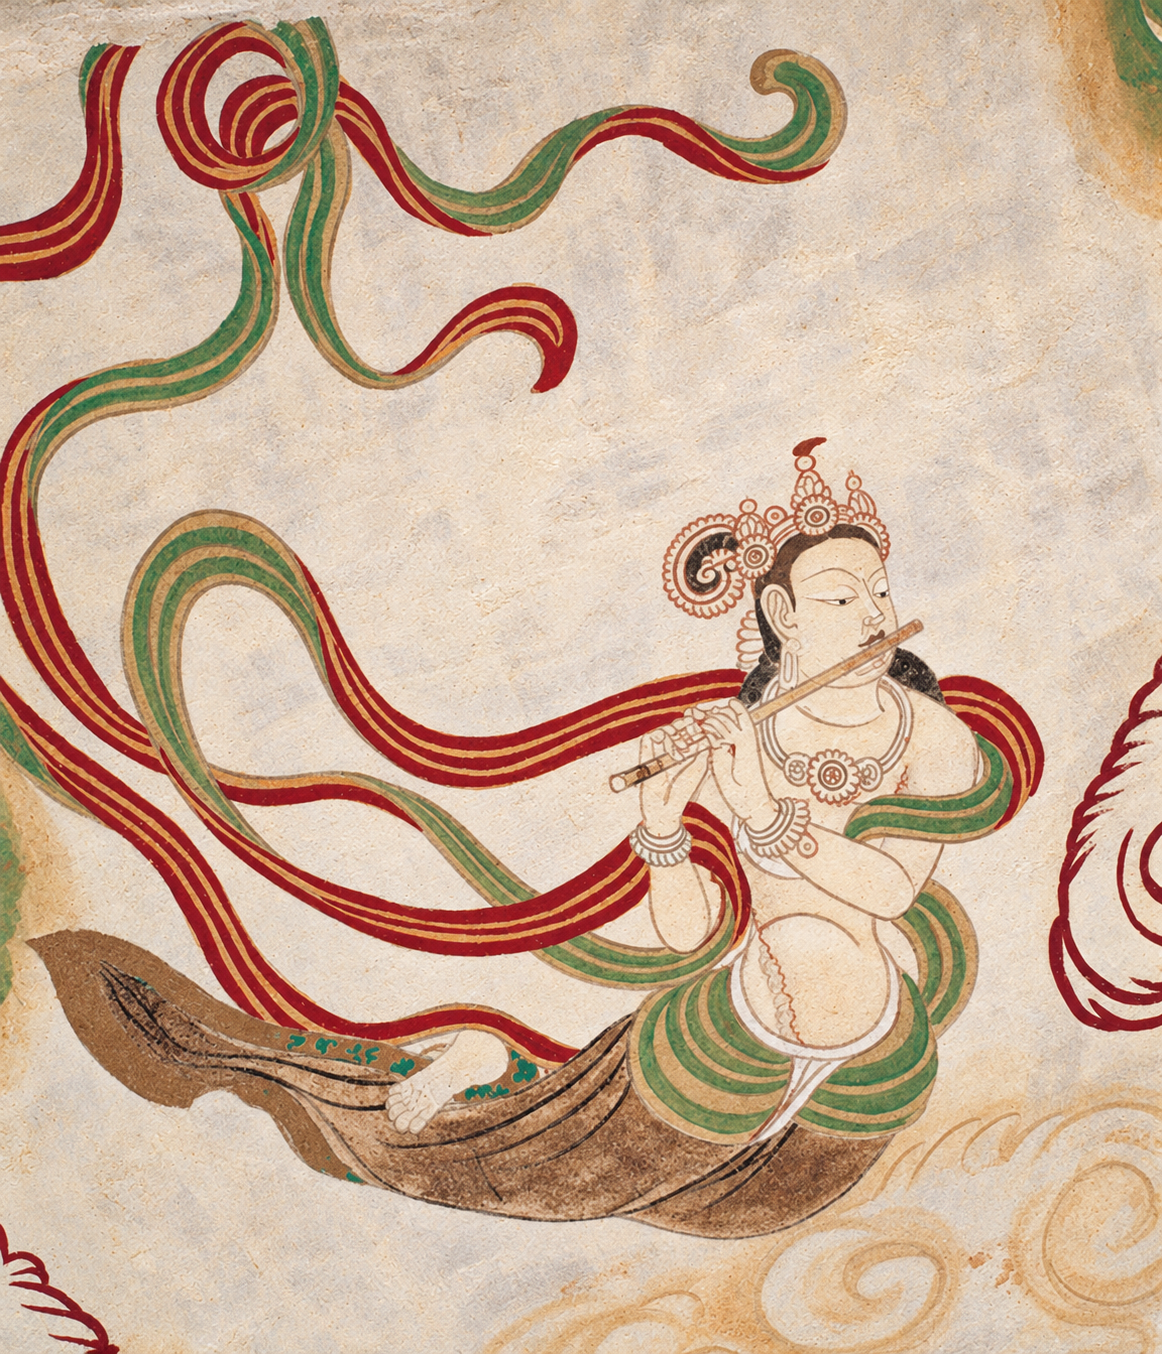
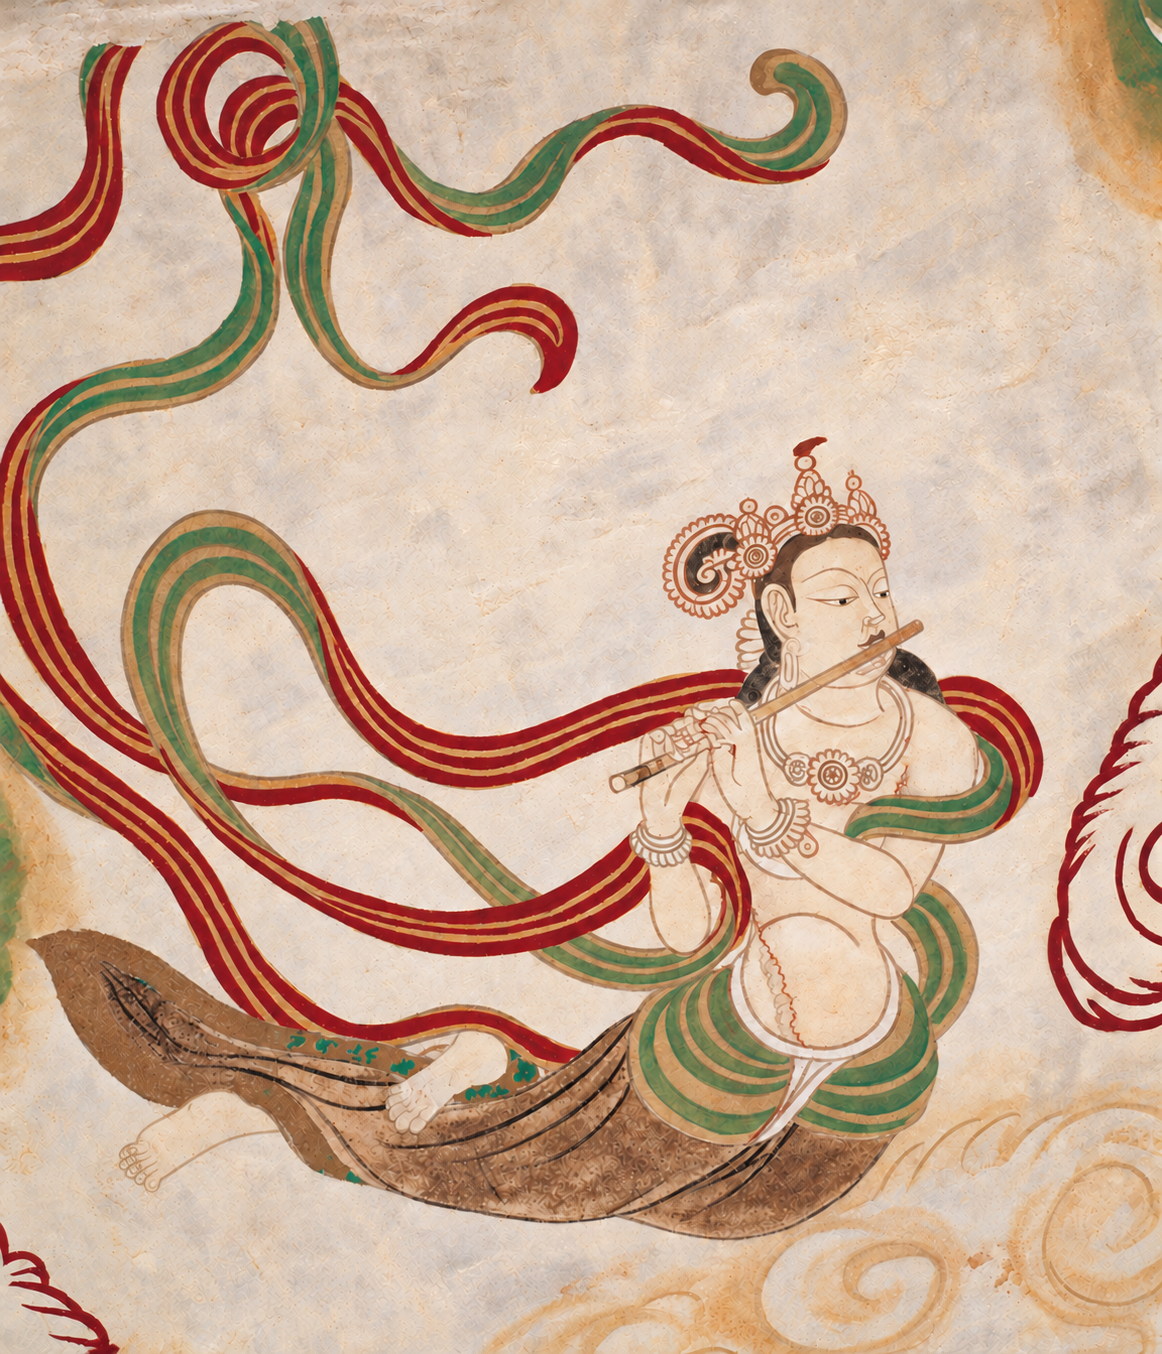
Restore the missing foot and separate particle scattering from gathering

diff --git a/particles.js b/particles.js
@@ -41,17 +41,18 @@ window.createFeitianEffects = function ({view,img,state,setHint}) {
     });ctx.restore();
     if(scene){
       const current=scene,t=clamp((now-current.start)/1000);
-      if(t>=.52&&!current.committed){current.committed=true;current.commit();img.style.opacity='0'}
-      const reveal=ease((t-.77)/.23),disappear=ease(t/.21),colour=ease((t-.33)/.42);
+      if(t>=.58&&!current.committed){current.committed=true;current.commit();img.style.opacity='0'}
+      const reveal=ease((t-.9)/.1),disappear=ease(t/.15),colour=ease((t-.58)/.32);
       img.style.opacity=String(current.committed?reveal:1-disappear);
-      const opacity=ease(t/.17)*(1-reveal);
-      const angle=Math.PI*1.6*ease((t-.02)/.96),cs=Math.cos(angle),sn=Math.sin(angle);
-      const tilt=.22*Math.sin(Math.PI*t),ct=Math.cos(tilt),st=Math.sin(tilt),focal=Math.max(width,height)*1.45;
-      const expansion=1+Math.sin(Math.PI*t)*.08;
+      const opacity=ease(t/.12)*(1-reveal);
+      // Rotation ends before gathering begins; the dispersed volume holds its angle.
+      const turn=ease(t/.55),angle=Math.PI*1.6*turn,cs=Math.cos(angle),sn=Math.sin(angle);
+      const tilt=.22*turn,ct=Math.cos(tilt),st=Math.sin(tilt),focal=Math.max(width,height)*1.45;
       current.points.forEach(p=>{
-        const spread=ease((t-.025-p.delay)/.49),gather=ease((t-.43-p.delay)/.49);
+        const spread=1-Math.pow(1-clamp((t-p.delay)/.48),3);
+        const gather=ease((t-.6-p.delay)/.34);
         // A volume of source-colour grains turns around the central vertical axis.
-        const rx=(p.ox*cs+p.oz*sn)*expansion,rz=(-p.ox*sn+p.oz*cs)*expansion;
+        const rx=p.ox*cs+p.oz*sn,rz=-p.ox*sn+p.oz*cs;
         const ry=p.oy*ct-rz*st,depth=p.oy*st+rz*ct,perspective=focal/(focal-depth);
         const vx=width/2+rx*perspective,vy=height/2+ry*perspective;
         const x=mix(mix(p.ax,vx,spread),p.bx,gather);
@@ -73,10 +74,13 @@ window.createFeitianEffects = function ({view,img,state,setHint}) {
         const u=(x+random(.2,.8))/cols,v=(y+random(.2,.8))/rows,i=(y*cols+x)*4;
         const a=point(u,v,old),bx=width/2+(u-.5)*nw,by=height/2+(v-.5)*nh;
         const first=[c0[i],c0[i+1],c0[i+2]],second=[c1[i],c1[i+1],c1[i+2]];
-        const ox=(u-.5)*Math.min(width*.69,Math.max(old.baseW,nw)*.9);
-        const oy=(v-.5)*Math.min(height*.72,Math.max(old.baseH,nh)*.9);
-        const oz=random(-1,1)*Math.min(width*.24,height*.4)*Math.sqrt(Math.max(.06,1-(2*u-1)**2-(2*v-1)**2));
-        points.push({ax:a[0],ay:a[1],bx,by,ox,oy,oz,delay:random(-.02,.025),r:random(.45,1.05),c0:first,c1:second,old:`rgb(${first})`,next:`rgb(${second})`});
+        // Independent 3D destinations break up the rectangular image into a loose cloud.
+        const azimuth=random(0,Math.PI*2),vertical=random(-1,1),radius=Math.cbrt(Math.random());
+        const ring=Math.sqrt(1-vertical*vertical)*radius;
+        const ox=Math.cos(azimuth)*ring*width*.43;
+        const oy=vertical*radius*height*.39;
+        const oz=Math.sin(azimuth)*ring*Math.min(width*.32,height*.62);
+        points.push({ax:a[0],ay:a[1],bx,by,ox,oy,oz,delay:random(0,.018),r:random(.45,1.05),c0:first,c1:second,old:`rgb(${first})`,next:`rgb(${second})`});
       }
       scene={points,commit,committed:false,start:performance.now()};view.classList.add('changing');start();
     }catch{commit();finish()}

diff --git a/index.html b/index.html
@@ -1,1 +1,1 @@
-<!doctype html><html lang="zh-CN"><head><meta charset="UTF-8"><meta name="viewport" content="width=device-width,initial-scale=1"><meta name="feitian-build" content="20261021-orbit3d13"><meta name="theme-color" content="#100d0b"><meta name="description" content="横向沉浸式敦煌飞天互动展馆。真实壁画、细粒子切换、精细金尘、拖拽漫游与画面取色，图片来源敦煌研究院。"><title>一袖千年 · 敦煌飞天交互展馆</title><link rel="stylesheet" href="style.css?v=20261021-orbit3d13"><link rel="stylesheet" href="museum.css?v=20261021-orbit3d13"><link rel="stylesheet" href="glass.css?v=20261021-orbit3d13"></head><body><header><a class="brand" href="#home" aria-label="一袖千年首页"><span>一袖千年<small>衣袂乘风 · 一梦敦煌</small></span></a><nav aria-label="主导航"></nav><div class="sound-wrap"><button class="sound" id="sound" aria-pressed="false"><span>♪</span> 听见天乐</button><a class="sound-source" href="https://peritune.com/blog/2018/10/13/wuxia2/" target="_blank" rel="noopener" title="Wuxia2（古筝与琵琶）· PeriTune · CC BY 4.0 · 当代配乐">Wuxia2 · PeriTune ↗</a></div></header><main></main><script src="app.js?v=20261021-orbit3d13"></script><script src="particles.js?v=20261021-orbit3d13"></script><script src="restore.js?v=20261021-orbit3d13"></script><script src="museum.js?v=20261021-orbit3d13"></script></body></html>
+<!doctype html><html lang="zh-CN"><head><meta charset="UTF-8"><meta name="viewport" content="width=device-width,initial-scale=1"><meta name="feitian-build" content="20261021-foot16"><meta name="theme-color" content="#100d0b"><meta name="description" content="横向沉浸式敦煌飞天互动展馆。真实壁画、细粒子切换、精细金尘、拖拽漫游与画面取色，图片来源敦煌研究院。"><title>一袖千年 · 敦煌飞天交互展馆</title><link rel="stylesheet" href="style.css?v=20261021-foot16"><link rel="stylesheet" href="museum.css?v=20261021-foot16"><link rel="stylesheet" href="glass.css?v=20261021-foot16"></head><body><header><a class="brand" href="#home" aria-label="一袖千年首页"><span>一袖千年<small>衣袂乘风 · 一梦敦煌</small></span></a><nav aria-label="主导航"></nav><div class="sound-wrap"><button class="sound" id="sound" aria-pressed="false"><span>♪</span> 听见天乐</button><a class="sound-source" href="https://peritune.com/blog/2018/10/13/wuxia2/" target="_blank" rel="noopener" title="Wuxia2（古筝与琵琶）· PeriTune · CC BY 4.0 · 当代配乐">Wuxia2 · PeriTune ↗</a></div></header><main></main><script src="app.js?v=20261021-foot16"></script><script src="particles.js?v=20261021-foot16"></script><script src="restore.js?v=20261021-foot16"></script><script src="museum.js?v=20261021-foot16"></script></body></html>

diff --git a/restore.js b/restore.js
@@ -14,7 +14,7 @@ window.setupMuralRestoration = function ({shell,getExhibit}) {
     const x=getExhibit();dialog.querySelector('#restoreTitle').textContent='AI修复 · '+x.name;
     before.src=x.src;before.alt=x.cave+' '+x.name+'，敦煌研究院原图';
     stage.classList.remove('ready');loading.hidden=false;loading.textContent='正在载入修复示意图…';
-    split(50);after.src='assets/restored/'+x.src.split('/').at(-1).replace(/\.[^.]+$/,'.png');
+    split(50);after.src='assets/restored/'+x.src.split('/').at(-1).replace(/\.[^.]+$/,'.png')+'?v=20261021-foot16';
     after.alt=x.name+' · AI修复示意（生成补绘，非原始壁画）';
     dialog.querySelector('.restore-foot a').href=x.link;
     button.setAttribute('aria-pressed','true');dialog.showModal();

diff --git a/assets/restored/PROVENANCE.md b/assets/restored/PROVENANCE.md
@@ -1,5 +1,21 @@
 # AI 修复示意：素材与提示词记录
 
+## 2026-10-21 吹横笛飞天缺失足部修正
+
+最终采用用户提供的原壁画足部放大图再次校正脚掌弯曲、脚踝角度和脚趾收拢。最终生成原件：`C:/Users/ASUS/.codex/generated_images/01a159ba-58a6-79a2-88e0-cbe7f77bea9b/exec-bee16742-c0c3-4119-9fac-c7c07bef79fd.png`。仍使用内置 imagegen，无 CLI/API 回退。
+
+最终局部形态校正提示词：
+
+Use case: precise-object-edit. Image 1 is the EDIT TARGET, the current full AI restoration visualization. Image 2 is the authentic full mural photograph for precise placement. Image 3 is the user's enlarged authentic crop showing the exact shape of the lower-left foot. Make only a localized correction to the newly restored LOWEST LEFT bare foot and ankle in image 1, below the brown skirt. The current foot is too straight and its toes too evenly spread. Closely trace the silhouette and pose in image 3: a short broad foot tilted down-left, with a bent/slightly flexed ankle, tightly grouped curved toes seen partly in side view, a rounded heel on the lower-right, and the calf extending up-right under the robe. Match the outline, proportions, toe grouping and angle of this original ancient mural foot rather than inventing a generic human foot. Keep it in the same position as in the full authentic mural, around normalized x .10-.27, y .82-.89. Do not enlarge it. Retain the other higher foot on top of the skirt exactly as it is; there are precisely TWO feet. Use the same restrained thin tan outline and muted pale flesh fill of image 1, preserving hand-painted mineral pigment and plaster texture. Preserve ALL other pixels as closely as possible: identical framing/aspect ratio, all ribbons, brown skirt, face, hands, flute, torso, jewellery, background and colours. Do not alter body pose, redesign clothing, add extra feet or legs, or modernize anatomy. Output the complete corrected image 1 only, not a crop, no labels or added text.
+
+### 首次补回缺失足部
+
+使用内置 imagegen 编辑工具，以原 AI 修复示意图为编辑对象、敦煌研究院原壁画为姿态参照，补回左下方缺失的第二只脚、脚踝及露出的小腿。输出已替换 `assets/restored/yulin-15-flute.png`，原始壁画未修改。生成原件：`C:/Users/ASUS/.codex/generated_images/01a159ba-58a6-79a2-88e0-cbe7f77bea9b/exec-2b50c30e-7d23-4603-a4a5-057f07e3611f.png`。
+
+最终提示词：
+
+Use case: precise-object-edit. Image 1 is the EDIT TARGET: the existing AI restoration visualization of the Yulin Cave 15 flute-playing apsara. Image 2 is the AUTHENTIC ORIGINAL REFERENCE for the exact missing anatomy, not a new style target. Correct ONE localized omission in image 1: restore the SECOND bare lower leg and foot extending down-left from beneath the brown skirt near the bottom-left. In image 2 it is clearly visible below the brown skirt: a faint calf angles left down to a foot with toes, around normalized x 0.11-0.29, y 0.82-0.89. Image 1 currently has empty beige plaster there; restore that same original leg/ankle/heel/foot/toes, connected naturally beneath the left portion of the brown garment, following the exact position and original pose in image 2. Keep the already present higher foot resting on the garment unchanged. There must be TWO feet as in the authentic reference, not one and not three. Match the restrained tan contour line, pale flesh fill, flat historic mural brushwork and aged plaster texture of image 1. Preserve image 1's exact framing, aspect ratio, body, face, hands, flute, jewelry, red and green ribbons, garment shapes, palette and all other details. This is a small precise anatomical correction, not a redesign or a new illustration. No text, border, labels, arrows or watermark. Output the full corrected image 1, not a crop.
+
 生成方式：内置 imagegen 图像编辑工具；无 CLI/API 回退。
 
 这些文件是基于展品原图生成的视觉示意，不是考古学复原、文物修复结果，也不是敦煌研究院作品。原图不覆盖；参照来源见网站每件展品链接。页面只在 AI 修复对照弹窗内显示示意图。

diff --git a/README.md b/README.md
@@ -1,6 +1,6 @@
 # 一袖千年 · 唐代飞天交互展馆
 
-横向沉浸展台，以敦煌真实壁画为展品。支持年代筛选、拖拽平移、缩放、放大镜和原图取色。静止观赏时始终显示敦煌研究院真实原图；鼠标不推动或掏空壁画。只有切换不同作品时，上一幅先化成原图采色细粒子围绕中央竖轴立体旋转（含纵深、透视缩放和前后层次），再凝聚成下一幅；全程约 1 秒，采用缓入缓出的曲线速度，完成后移除粒子层并恢复原图。
+横向沉浸展台，以敦煌真实壁画为展品。支持年代筛选、拖拽平移、缩放、放大镜和原图取色。静止观赏时始终显示敦煌研究院真实原图；鼠标不推动或掏空壁画。只有切换不同作品时，上一幅先化成原图采色细粒子围绕中央竖轴立体旋转并向外扩散（含纵深、透视缩放和前后层次）；旋转停止后，再回收聚集成下一幅；全程约 1 秒，采用缓入缓出的曲线速度，完成后移除粒子层并恢复原图。
 
 保留少量画外细尘，右上角可关闭动效；默认尊重系统减少动态效果设置，切到后台暂停。没有持续的粒子画面、衣带流光或黑洞排斥。所有图片都有敦煌研究院来源链接。
 
